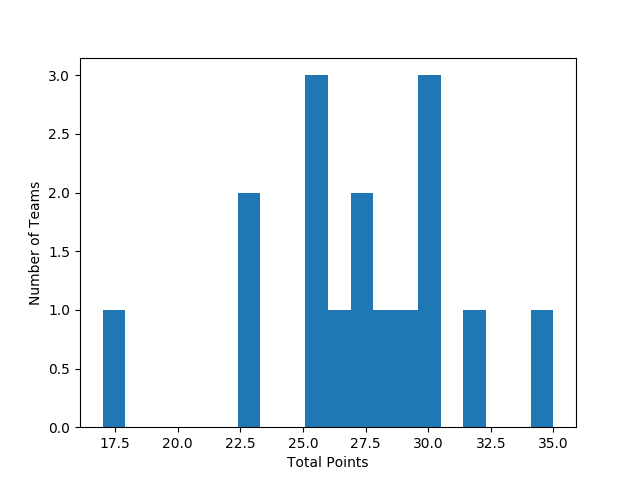
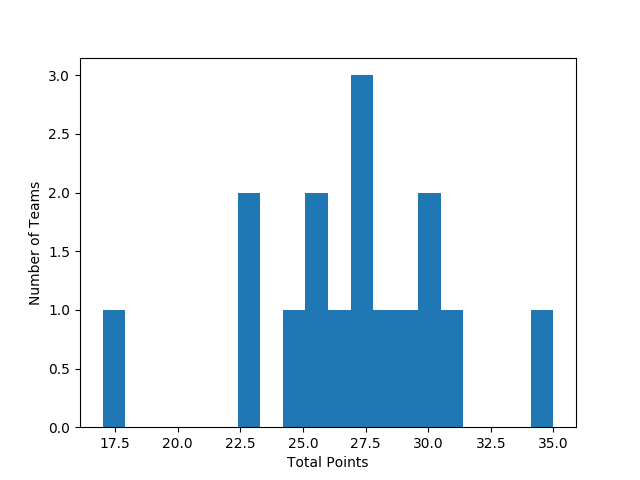
Corrections to bonus picks

diff --git a/bowl_pool/2022-2023/rankings.html b/bowl_pool/2022-2023/rankings.html
@@ -364,23 +364,23 @@ ul.auto-toc {
 
 
 <div class="line-block">
-<div class="line"><em>Last updated:  2023-01-09 21:22:19</em></div>
+<div class="line"><em>Last updated:  2023-01-09 21:40:39</em></div>
 <div class="line"><em>Last bowl scored:  Rose Bowl (Utah vs. Penn State)</em></div>
 </div>
 <div class="line-block">
 <div class="line">1. <strong>Amanda 35.0</strong></div>
-<div class="line">2. <strong>GlamKam 32.25</strong></div>
+<div class="line">2. <strong>GlamKam 31.25</strong></div>
 <div class="line">3. <strong>Sure Thing Shipley 30.0</strong></div>
 <div class="line">4. Badgers 29.75</div>
-<div class="line">4. bopper 29.75</div>
-<div class="line">6. Bugaroo 29.0</div>
-<div class="line">7. #mamabear 28.25</div>
+<div class="line">5. Bugaroo 29.0</div>
+<div class="line">6. #mamabear 28.25</div>
+<div class="line">7. bopper 27.75</div>
 <div class="line">8. MamaLonghorn 27.25</div>
 <div class="line">8. NIL 27.25</div>
 <div class="line">10. Bear-in-Law 26.75</div>
 <div class="line">11. Bad News Bibby 25.75</div>
 <div class="line">12. Aggie Austin 25.5</div>
-<div class="line">13. blue orred 25.25</div>
+<div class="line">13. blue orred 24.25</div>
 <div class="line">14. W2D2 22.75</div>
 <div class="line">15. D-bo 22.5</div>
 <div class="line">16. <strong>Gigi 17.0</strong></div>

diff --git a/bowl_pool/test/2022-2023_Bonus/index.html b/bowl_pool/test/2022-2023_Bonus/index.html
@@ -365,19 +365,13 @@ ul.auto-toc {
 
 <p><strong>2022-2023_Bonus Bowl Pool</strong></p>
 <div class="line-block">
-<div class="line"><em>Last updated:  2023-01-09 21:17:15</em></div>
+<div class="line"><em>Last updated:  2023-01-09 21:24:37</em></div>
 <div class="line"><em>Last bowl scored:  National Championship (Georgia vs. TCU)</em></div>
 </div>
 <ul class="simple">
 <li><a class="reference external" href="rankings.html">Rankings</a> (<a class="reference external" href="rankings.csv">csv</a>)</li>
 <li><a class="reference external" href="results.html">Results</a> (<a class="reference external" href="results.csv">csv</a>)</li>
 <li><a class="reference external" href="picks.html">Picks</a> (<a class="reference external" href="picks.csv">csv</a>)</li>
-</ul>
-<p>Analysis</p>
-<ul class="simple">
-<li><a class="reference external" href="scoresHistogram.png">Score distribution</a></li>
-<li><a class="reference external" href="pointsTrajectories.png">Points trajectories</a></li>
-<li><a class="reference external" href="rankingsTrajectories.png">Rankings trajectories</a></li>
 </ul>
 </div>
 </body>

diff --git a/bowl_pool/2022-2023/results.html b/bowl_pool/2022-2023/results.html
@@ -1216,7 +1216,7 @@ ul.auto-toc {
 <td>0.0</td>
 <td>0.0</td>
 <td>0.0</td>
-<td>1.0</td>
+<td>0.0</td>
 <td>0.0</td>
 <td>0.0</td>
 <td>0.0</td>
@@ -1237,12 +1237,12 @@ ul.auto-toc {
 <td>0.0</td>
 <td>0.0</td>
 <td>1.0</td>
-<td>1.0</td>
-<td>1.0</td>
+<td>0.0</td>
+<td>0.0</td>
 <td>0.0</td>
 <td>1.0</td>
 <td>0.0</td>
-<td>1.0</td>
+<td>0.0</td>
 <td>0.0</td>
 <td>0.0</td>
 <td>1.0</td>
@@ -1281,12 +1281,12 @@ ul.auto-toc {
 <td><strong>25.75</strong></td>
 <td><strong>29.75</strong></td>
 <td><strong>26.75</strong></td>
-<td><strong>25.25</strong></td>
-<td><strong>29.75</strong></td>
+<td><strong>24.25</strong></td>
+<td><strong>27.75</strong></td>
 <td><strong>29.0</strong></td>
 <td><strong>22.5</strong></td>
 <td><strong>17.0</strong></td>
-<td><strong>32.25</strong></td>
+<td><strong>31.25</strong></td>
 <td><strong>27.25</strong></td>
 <td><strong>27.25</strong></td>
 <td><strong>30.0</strong></td>

diff --git a/bowl_pool/2022-2023/picks.html b/bowl_pool/2022-2023/picks.html
@@ -1216,7 +1216,7 @@ ul.auto-toc {
 <td>No</td>
 <td>No</td>
 <td>No</td>
-<td>Yes</td>
+<td>No</td>
 <td>No</td>
 <td>No</td>
 <td>No</td>
@@ -1237,12 +1237,12 @@ ul.auto-toc {
 <td>No</td>
 <td>No</td>
 <td>Yes</td>
-<td>Yes</td>
-<td>Yes</td>
+<td>No</td>
+<td>No</td>
 <td>No</td>
 <td>Yes</td>
 <td>No</td>
-<td>Yes</td>
+<td>No</td>
 <td>No</td>
 <td>No</td>
 <td>Yes</td>

diff --git a/bowl_pool/2022-2023/index.html b/bowl_pool/2022-2023/index.html
@@ -365,7 +365,7 @@ ul.auto-toc {
 
 <p><strong>2022-2023 Bowl Pool</strong></p>
 <div class="line-block">
-<div class="line"><em>Last updated:  2023-01-09 21:22:20</em></div>
+<div class="line"><em>Last updated:  2023-01-09 21:40:39</em></div>
 <div class="line"><em>Last bowl scored:  Rose Bowl (Utah vs. Penn State)</em></div>
 </div>
 <ul class="simple">

diff --git a/bowl_pool/test/2022-2023_Bonus/rankings.html b/bowl_pool/test/2022-2023_Bonus/rankings.html
@@ -364,7 +364,7 @@ ul.auto-toc {
 
 
 <div class="line-block">
-<div class="line"><em>Last updated:  2023-01-09 21:17:14</em></div>
+<div class="line"><em>Last updated:  2023-01-09 21:24:37</em></div>
 <div class="line"><em>Last bowl scored:  National Championship (Georgia vs. TCU)</em></div>
 </div>
 <div class="line-block">
